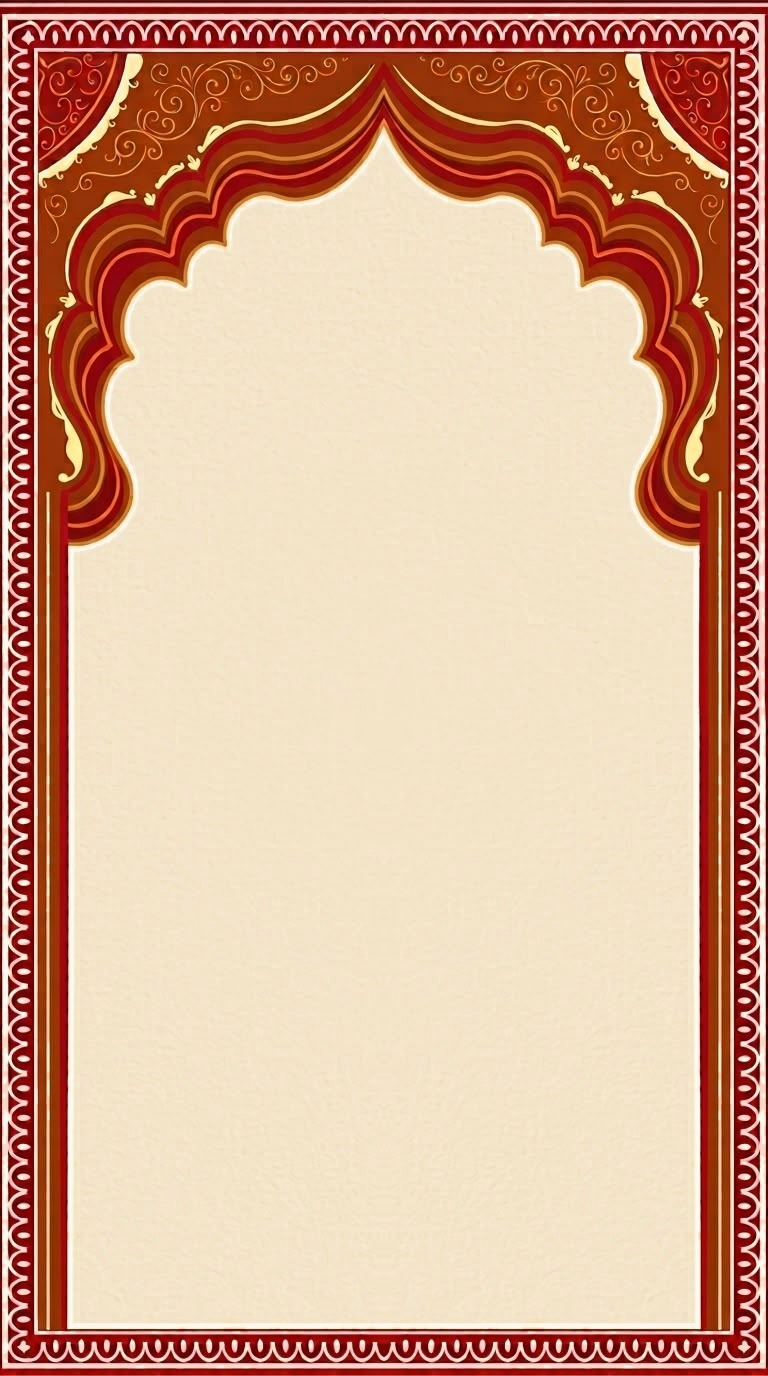
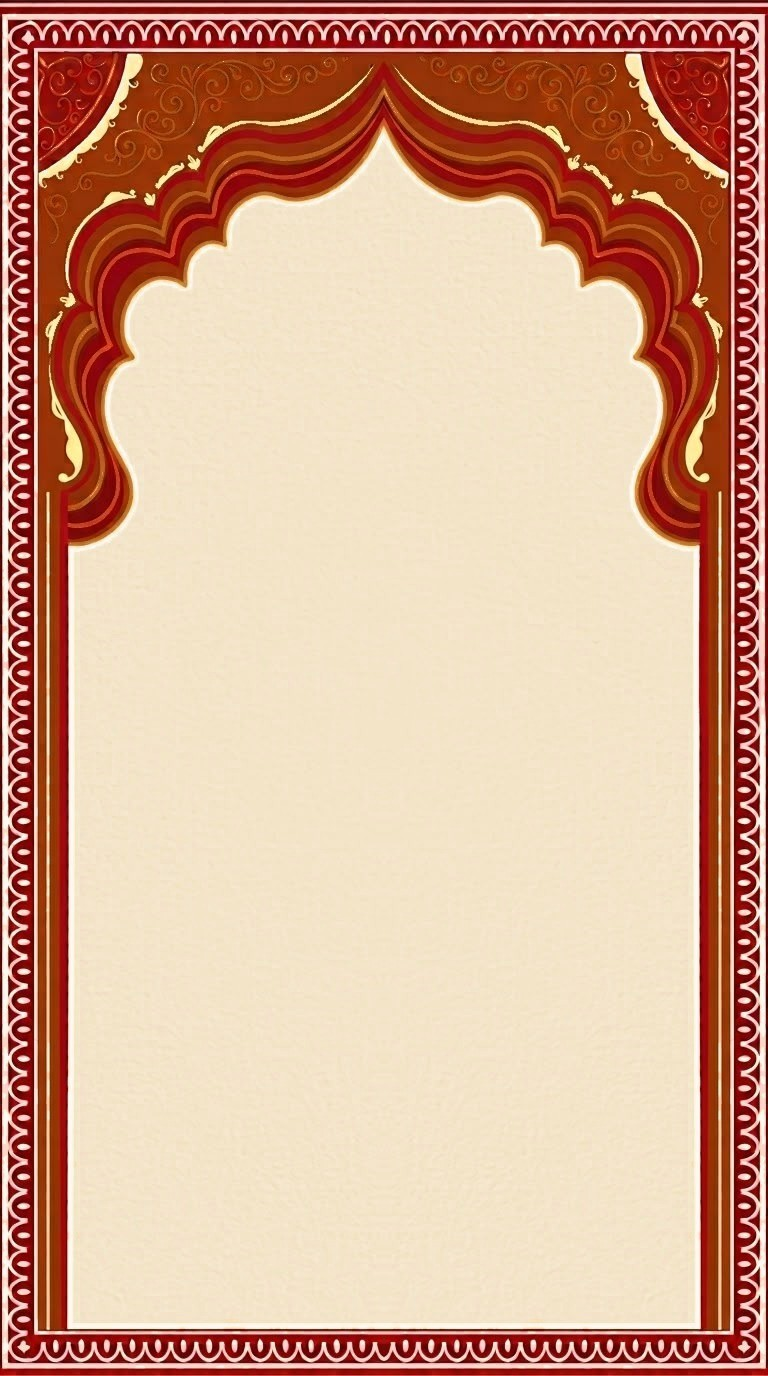
Couple card: names as the focal point, a calmer arch, venue and calendar together
Same arch, borders, Ganesha, invocation, names, date, venue, blessing,
hashtag, illustration and order:
- The arch (couple-card.jpg): the fine gold scrollwork in the two upper
  corners and the swirls in the corner rosettes fade most of the way
  into their ground, and the two bright orange inner outlines soften;
  each touched pixel moves toward the average of its untouched
  neighbours, by colour class, so both halves change alike. Cream
  accents, arch shape and symmetry are untouched.
- Names: the focal point, clamp(44px, 14.4cqw, 56px) in the names'
  maroon serif with a small gold ampersand; a long name shrinks a
  little, then takes two lines.
- Date block: the numeral at 40px, optically centred against the
  words; the gold lines lighter and of equal length.
- Venue and Add to calendar as one block: the place in semibold, the
  city softer, then a small outlined maroon pill with a calendar icon
  (the same Google Calendar link, a 44px tap target).
- Spacing: ~10px within a group, 20-24px between; the hashtag sits
  close above the couple; the illustration a little smaller with more
  room above the bottom border (the card now fits a 390×844 screen).
- Motion: the arch settles in, then the names, date and venue, quote
  and couple rise in; reduced motion shows everything at once. Falling
  petals fade while the card fills the screen.

diff --git a/src/components/sections/Couple.tsx b/src/components/sections/Couple.tsx
@@ -2,13 +2,14 @@ import { useRef, type CSSProperties } from "react";
 import { wedding } from "@/config/wedding";
 import { useFitToArea } from "@/hooks/useFitToArea";
 import { useInView } from "@/hooks/useInView";
+import { usePrefersReducedMotion } from "@/hooks/useMediaQuery";
 import { EASE } from "@/lib/motion";
 import { googleCalendarUrl, weddingCalendarItem } from "@/lib/calendar";
 import { formatVenueDate, parseVenueDateTime } from "@/lib/venueTime";
 import { CardBackdrop, cardCq, cardMinHeight, type CardArt } from "@/components/art/CardBackdrop";
 import { GaneshaIcon, LotusIcon } from "@/components/art/Ganesha";
 import { PinIcon } from "@/components/ui/CardOrnaments";
-import { FitText } from "@/components/ui/FitText";
+import { FitText, type FitTier } from "@/components/ui/FitText";
 
 /**
  * The couple card artwork (768×1376): a carved arch in a red-and-gold border
@@ -27,21 +28,32 @@ const COUPLE_ART = { src: "/art/couple-havan.png", alt: "The bride and groom sea
 const GOLD = "#B8863B";
 const MAROON = "#7A1424";
 const MUTED = "#7A5A44";
+/** A long name first shrinks a little on its line, then takes two. */
+const NAME_FIT: FitTier[] = [
+  [1, 0.78],
+  [2, 0.78],
+];
 
 /**
  * Section 03 — The couple.
  * Inside the card's arch and border, in four groups with a steady rhythm
- * (12px within a group, 32px between): Ganesha, the invocation and the
- * invite line; the couple's names rising in one after another; the date as
- * a classic block, the venue and "Add to calendar"; then a small lotus, the
- * quote and the hashtag — above the illustrated couple at the sacred fire,
- * whose foot fades into the card.
+ * (about 10px within a group, 24px between): Ganesha, the invocation and the
+ * invite line; the couple's names — the focal point, large, with a small
+ * gold ampersand; the date as a classic block, then the venue and a small
+ * outlined "Add to calendar" together; then a small lotus, the quote and the
+ * hashtag, close above the illustrated couple at the sacred fire, which
+ * keeps clear of the bottom border. The arch settles in, then the names,
+ * the date and venue, the quote and the couple rise in, one after another;
+ * with reduced motion all of it is simply there. The falling petals fade
+ * while the card fills the screen.
  */
 export function Couple() {
   const ref = useRef<HTMLElement>(null);
   const areaRef = useRef<HTMLDivElement>(null);
   const blockRef = useRef<HTMLDivElement>(null);
   const inView = useInView(ref, { threshold: 0.25 });
+  const reduced = usePrefersReducedMotion();
+  const on = inView || reduced;
   useFitToArea(areaRef, blockRef);
   const { couple, invitation } = wedding;
   const [first, second] = invitation.names;
@@ -49,11 +61,13 @@ export function Couple() {
   const calendarUrl = calendarItem && googleCalendarUrl(calendarItem);
 
   /** Fades in from just below, after `delay` ms. */
-  const rise = (delay: number): CSSProperties => ({
-    opacity: inView ? 1 : 0,
-    transform: inView ? "none" : "translateY(12px)",
-    transition: `opacity 700ms ${EASE.silk} ${delay}ms, transform 800ms ${EASE.silk} ${delay}ms`,
+  const rise = (delay: number, lift = 12): CSSProperties => ({
+    opacity: on ? 1 : 0,
+    transform: on ? "none" : `translateY(${lift}px)`,
+    transition: reduced ? "none" : `opacity 700ms ${EASE.silk} ${delay}ms, transform 800ms ${EASE.silk} ${delay}ms`,
   });
+  // "Jagannath Kalyan Mandap, Bhubaneswar, Odisha" → the place, then the city
+  const [venueName, venueCity] = couple.place ? couple.place.split(/,\s*(.+)/).filter(Boolean) : [];
 
   return (
     <section
@@ -61,90 +75,103 @@ export function Couple() {
       id="couple"
       aria-labelledby="couple-heading"
       data-status-tone="light"
+      data-no-petals
       className="relative [container-type:inline-size]"
     >
-      <CardBackdrop card={CARD} />
+      {/* the arch settles in */}
+      <CardBackdrop
+        card={CARD}
+        style={{
+          opacity: on ? 1 : 0.4,
+          transform: on ? "none" : "scale(1.015)",
+          transformOrigin: "50% 0",
+          transition: reduced ? "none" : `opacity 900ms ${EASE.silk}, transform 1400ms ${EASE.silk}`,
+        }}
+      />
 
       <div
         className="relative z-20 flex flex-col"
         style={{
           minHeight: cardMinHeight(CARD),
           paddingTop: cq(UNDER_ARCH),
-          paddingBottom: `calc(${cq(CARD.h - BORDER_BOTTOM)} + 10px)`,
+          paddingBottom: `calc(${cq(CARD.h - BORDER_BOTTOM)} + 22px)`,
         }}
       >
         <div ref={areaRef} className="relative min-h-0 flex-1">
           {/* Centred in the card; shrinks a little on very small screens */}
           <div
             ref={blockRef}
-            className="absolute inset-x-0 top-1/2 flex flex-col items-center gap-8 text-center font-serif"
+            className="absolute inset-x-0 top-1/2 flex flex-col items-center text-center font-serif"
             style={{ paddingInline: `calc(${cq(PANEL_EDGE)} + 28px)`, transform: "translateY(-50%)" }}
           >
             {/* Ganesha, the invocation and the invite line */}
-            <div className="flex flex-col items-center gap-3">
+            <div className="flex flex-col items-center gap-2.5">
               <div
                 style={{
-                  opacity: inView ? 1 : 0,
-                  transform: inView ? "none" : "scale(0.85)",
-                  transition: `opacity 600ms ${EASE.silk}, transform 600ms ${EASE.silk}`,
+                  opacity: on ? 1 : 0,
+                  transform: on ? "none" : "scale(0.85)",
+                  transition: reduced ? "none" : `opacity 600ms ${EASE.silk} 150ms, transform 600ms ${EASE.silk} 150ms`,
                 }}
               >
-                <GaneshaIcon className="mt-2 h-[46px] w-auto" />
+                <GaneshaIcon className="mt-2 h-[44px] w-auto" />
               </div>
-              <p className="t-blessing whitespace-nowrap" style={rise(250)}>
+              <p className="t-blessing whitespace-nowrap" style={rise(300)}>
                 {couple.invocation}
               </p>
-              <p className="max-w-[16.5rem] font-serif text-[15px] italic leading-snug [text-wrap:balance]" style={{ ...rise(450), color: MUTED }}>
+              <p className="max-w-[16.5rem] font-serif text-[15px] italic leading-snug [text-wrap:balance]" style={{ ...rise(420), color: MUTED }}>
                 {couple.invite}
               </p>
             </div>
 
             {/* The couple's names, one after another */}
-            <h2 id="couple-heading" className="flex flex-col items-center">
-              <span className="t-names" style={rise(700)}>
+            <h2 id="couple-heading" className="mt-5 flex w-full flex-col items-center">
+              <FitText as="span" tiers={NAME_FIT} className="t-names couple-name" style={rise(600)}>
                 {first}
-              </span>
-              <span className="t-amp my-1 text-[28px]" style={{ ...rise(950), color: "#C9A24E" }}>
+              </FitText>
+              <span className="couple-amp" style={rise(760)}>
                 &amp;
               </span>
-              <span className="t-names" style={rise(1200)}>
+              <FitText as="span" tiers={NAME_FIT} className="t-names couple-name" style={rise(920)}>
                 {second}
-              </span>
+              </FitText>
             </h2>
 
             {/* The date as a classic block, the venue, and Add to calendar */}
-            <div className="flex flex-col items-center gap-3" style={rise(1450)}>
+            <div className="mt-5 flex flex-col items-center" style={rise(1100)}>
               <DateBlock />
-              {couple.place && (
-                <div className="flex flex-col items-center gap-1">
-                  <PinIcon />
-                  <p className="t-body font-semibold leading-snug">
-                    {couple.place.split(/,\s*(.+)/).filter(Boolean).map((part, i) => (
-                      <span key={i} className="block">
-                        {part}
-                      </span>
-                    ))}
-                  </p>
+              {/* the venue and Add to calendar, together */}
+              {(venueName || calendarUrl) && (
+                <div className="mt-4 flex flex-col items-center">
+                  {venueName && (
+                    <>
+                      <PinIcon />
+                      <p className="mt-1.5 leading-snug">
+                        <span className="couple-venue-name">{venueName}</span>
+                        {venueCity && <span className="couple-venue-city">{venueCity}</span>}
+                      </p>
+                    </>
+                  )}
+                  {calendarUrl && (
+                    <a href={calendarUrl} target="_blank" rel="noopener noreferrer" className="couple-cal mt-3">
+                      <CalendarIcon />
+                      Add to calendar
+                    </a>
+                  )}
                 </div>
-              )}
-              {calendarUrl && (
-                <a href={calendarUrl} target="_blank" rel="noopener noreferrer" className="couple-cal">
-                  Add to calendar
-                </a>
               )}
             </div>
 
             {/* A small lotus, the quote, and the hashtag */}
-            <div className="flex flex-col items-center gap-3" style={rise(1700)}>
-              <LotusIcon className="h-5 w-auto" />
+            <div className="mt-5 flex flex-col items-center gap-2.5" style={rise(1280)}>
+              <LotusIcon className="h-[18px] w-auto" />
               <p className="t-quote max-w-[17rem] [text-wrap:balance]">{couple.quote}</p>
               {couple.hashtag && (
                 <div className="flex flex-col items-center gap-1.5">
-                  <span aria-hidden className="h-px w-40" style={{ background: `linear-gradient(to right, transparent, ${GOLD}, transparent)` }} />
+                  <span aria-hidden className="h-px w-36" style={{ background: `linear-gradient(to right, transparent, ${GOLD}, transparent)` }} />
                   <FitText tiers={[[1, 0.6]]} className="t-hashtag">
                     {couple.hashtag}
                   </FitText>
-                  <span aria-hidden className="h-px w-40" style={{ background: `linear-gradient(to right, transparent, ${GOLD}, transparent)` }} />
+                  <span aria-hidden className="h-px w-36" style={{ background: `linear-gradient(to right, transparent, ${GOLD}, transparent)` }} />
                 </div>
               )}
             </div>
@@ -156,15 +183,15 @@ export function Couple() {
           src={COUPLE_ART.src}
           alt={COUPLE_ART.alt}
           decoding="async"
-          className="mx-auto mt-2 block h-auto shrink-0"
+          className="mx-auto mt-3 block h-auto shrink-0"
           style={{
-            width: "min(52cqw, 230px)",
+            width: "min(46cqw, 206px)",
             aspectRatio: `${COUPLE_ART.aspect}`,
-            WebkitMaskImage: "linear-gradient(to bottom, #000 85%, transparent)",
-            maskImage: "linear-gradient(to bottom, #000 85%, transparent)",
-            opacity: inView ? 1 : 0,
-            transform: inView ? "none" : "translateY(16px)",
-            transition: `opacity 900ms ${EASE.silk} 300ms, transform 1000ms ${EASE.silk} 300ms`,
+            WebkitMaskImage: "linear-gradient(to bottom, #000 90%, transparent)",
+            maskImage: "linear-gradient(to bottom, #000 90%, transparent)",
+            opacity: on ? 1 : 0,
+            transform: on ? "none" : "translateY(16px)",
+            transition: reduced ? "none" : `opacity 1000ms ${EASE.silk} 700ms, transform 1100ms ${EASE.silk} 700ms`,
           }}
         />
       </div>
@@ -172,20 +199,31 @@ export function Couple() {
   );
 }
 
-/** The date as a classic block: FRIDAY | 12 | FEB 2027, the words between thin gold lines. */
+/** The date as a classic block: FRIDAY | 12 | FEB 2027, the words between thin gold lines of equal length. */
 function DateBlock() {
   const p = parseVenueDateTime(wedding.wedding.dateTime);
   if (!p) return null;
   const f = formatVenueDate(p);
   return (
-    <p className="grid w-[260px] max-w-full grid-cols-[1fr_auto_1fr] items-center gap-3">
+    <p className="grid w-[252px] max-w-full grid-cols-[1fr_auto_1fr] items-center gap-[14px]">
       <span className="couple-dateside">{f.weekday}</span>
-      <span className="font-cinzel text-[44px] font-semibold leading-none" style={{ color: MAROON }}>
+      <span className="couple-dateday" style={{ color: MAROON }}>
         {f.day}
       </span>
       <span className="couple-dateside">
         {f.month.slice(0, 3)} {f.year}
       </span>
     </p>
+  );
+}
+
+/** A small calendar, for Add to calendar. */
+function CalendarIcon() {
+  return (
+    <svg viewBox="0 0 16 16" aria-hidden className="h-[13px] w-[13px]" fill="none" stroke="currentColor" strokeWidth="1.3" strokeLinecap="round" strokeLinejoin="round">
+      <rect x="2" y="3.2" width="12" height="10.8" rx="1.6" />
+      <path d="M2 6.6h12M5.2 1.8v2.6M10.8 1.8v2.6" />
+      <circle cx="8" cy="10.2" r="0.9" fill="currentColor" stroke="none" />
+    </svg>
   );
 }

diff --git a/src/index.css b/src/index.css
@@ -843,29 +843,59 @@
 }
 
 /* The couple card: the date block's side words between thin gold lines, and Add to calendar */
+/* The couple card (Couple.tsx). The names are the focal point: large, in the
+   names' maroon serif, a small gold ampersand between them. */
+.couple-name {
+  display: block;
+  font-size: clamp(44px, 14.4cqw, 56px);
+  line-height: 1.04;
+  text-wrap: balance;
+}
+.couple-amp {
+  display: block;
+  margin: 2px 0 1px;
+  font: italic 600 26px/1 var(--font-serif);
+  color: #c9a24e;
+}
+/* the date: FRIDAY | 12 | FEB 2027, the words between delicate gold lines */
 .couple-dateside {
   display: block;
-  padding: 5px 0 5px 0.2em; /* the left padding balances the trailing letter-spacing */
-  border-top: 1px solid rgb(201 162 78 / 0.75);
-  border-bottom: 1px solid rgb(201 162 78 / 0.75);
+  padding: 6px 0 6px 0.2em; /* the left padding balances the trailing letter-spacing */
+  border-top: 1px solid rgb(201 162 78 / 0.6);
+  border-bottom: 1px solid rgb(201 162 78 / 0.6);
   font: 500 11px/1.2 var(--font-ui);
   letter-spacing: 0.2em;
   text-transform: uppercase;
   white-space: nowrap;
   color: #7a5a44;
 }
-.couple-cal {
-  padding: 6px 4px;
-  color: #7a1424;
-  font: 500 14px/1 var(--font-ui);
-  font-variant-caps: all-small-caps;
-  letter-spacing: 0.1em;
-  text-decoration: underline;
-  text-decoration-thickness: 1px;
-  text-underline-offset: 4px;
-  text-decoration-color: rgb(122 20 36 / 0.5);
+.couple-dateday {
+  font: 600 40px/1 var(--font-cinzel);
+  padding-top: 2px; /* Cinzel's figures sit a touch high in their line */
 }
-.couple-cal:focus-visible { outline: 2px solid #c9a24e; outline-offset: 3px; border-radius: 2px; }
+/* the venue and Add to calendar, one block */
+.couple-venue-name { display: block; font: 600 17px/1.3 var(--font-serif); color: var(--c-text); }
+.couple-venue-city { display: block; margin-top: 1px; font: 500 15px/1.3 var(--font-serif); color: #7a5a44; }
+.couple-cal {
+  position: relative;
+  display: inline-flex;
+  align-items: center;
+  gap: 6px;
+  min-height: 32px;
+  padding: 0 14px;
+  border: 1px solid rgb(122 20 36 / 0.5);
+  border-radius: 999px;
+  background: rgb(255 250 240 / 0.55);
+  color: #7a1424;
+  font: 600 10.5px/1 var(--font-ui);
+  letter-spacing: 0.14em;
+  text-transform: uppercase;
+  transition: border-color 200ms ease, background-color 200ms ease, transform 150ms ease;
+}
+.couple-cal::before { content: ""; position: absolute; inset: -6px 0; } /* a 44px tap target */
+@media (hover: hover) { .couple-cal:hover { border-color: #7a1424; background: rgb(255 250 240 / 0.9); } }
+.couple-cal:active { transform: scale(0.97); }
+.couple-cal:focus-visible { outline: 2px solid #c9a24e; outline-offset: 3px; }
 
 /* The Families: a carved gold frame around each set of parents (see GoldFrame).
    The band is a gilded gradient with a row of beads along it; the panel inside

diff --git a/src/components/art/CardBackdrop.tsx b/src/components/art/CardBackdrop.tsx
@@ -1,3 +1,5 @@
+import type { CSSProperties } from "react";
+
 /**
  * An illustrated portrait card used as a full-screen section background.
  * Its decorated top (0 → `top`) and bottom (`bottomFrom` → `h`) are kept
@@ -20,9 +22,9 @@ export const cardCq = (card: CardArt, px: number) => `${((px / card.w) * 100).to
 /** The shortest the section may be: the card's whole top and bottom. */
 export const cardMinHeight = (card: CardArt) => `max(100dvh, ${cardCq(card, card.top + card.h - card.bottomFrom)})`;
 
-export function CardBackdrop({ card }: { card: CardArt }) {
+export function CardBackdrop({ card, style }: { card: CardArt; style?: CSSProperties }) {
   return (
-    <div aria-hidden className="absolute inset-0 flex flex-col">
+    <div aria-hidden className="absolute inset-0 flex flex-col" style={style}>
       <div
         className="relative z-10 shrink-0"
         style={{ height: cardCq(card, card.top), backgroundImage: `url(${card.src})`, backgroundSize: "100% auto", backgroundPosition: "top", backgroundRepeat: "no-repeat" }}

diff --git a/README.md b/README.md
@@ -98,7 +98,7 @@ Each section has its own entrance. All of them respect *reduced motion*.
 |---|---|
 | Opening | The carved temple gate (`public/art/temple-door.webp`, Lakshmi above) in warm light, a golden fingertip tapping its brass lock above TAP TO OPEN. The gate shows as soon as the door image has loaded (the darshan artwork loads meanwhile). A tap, or 3.5 s of nothing, opens it (once): the doors part onto a dark doorway with light deep inside, hundreds of golden motes (one canvas, `opening/GoldDust.tsx`) and delicate rays pour out; the gate fades and is removed; on deep black Mahaprabhu Jagannath (`jagannath-darshan.webp`, sunburst masked away) emerges slowly through the motes in a soft halo; petals fall during the darshan; he dissolves into motes in his own shape, which swirl into a ring that settles onto the invitation's rangoli — about 6.5 s from the tap. Skip, Esc, or a tap anywhere during the darshan skips to the end; a sound button plays the sankha. Repeat visits on the same device (`tila:opening-seen` in localStorage) get the short opening: the doors open (1.2 s) straight onto the invitation. `?intro=1` replays the full intro. With reduced motion there is no opening |
 | Invitation | The illustrated invitation card fits one screen: the card (`public/art/invitation/card.jpg`) with its toran and the trinity lifted into their own layers (`toran.webp`, `trinity.webp`); its plain middle band (`public/art/invitation-card-middle.png`) repeats so it fills any height undistorted. The panel is shared in three bands: the top art (the toran swaying gently from its top centre, the trinity 150–160px wide in a soft golden glow, the hanging lamps' flames flickering) about 27%; the words in the middle, centred (|| Jai Jagannath ||, the guest by name, Save the Date, the names at 52px with a gold &, are getting married, then a gold divider, the date as 12 · 02 · 2027 in Cinzel and the city in italics); and the rangoli (30% larger, turning slowly, a gold ring pulsing behind it until tapped) with Tap the rangoli about 27%. Reduced motion: nothing sways, flickers, turns or pulses |
-| Couple | The couple card (`public/art/couple-card.jpg`: carved arch in a red-and-gold border, cream matched to the invitation) fills one screen. Spread evenly inside it: a small dark red Ganesha (`public/art/ganesha-dark-red.png`) just above || Om Ganeshaya Namah ||, the guest greeted by name, the names stacked rising in one after another, the hashtag between gold rules, the date and then the place, and a quote under a small lotus; the illustrated couple seated at the sacred fire (`public/art/couple-havan.png`) is centred at the bottom |
+| Couple | The couple card (`public/art/couple-card.jpg`: carved arch in a red-and-gold border, cream matched to the invitation; the fine scrollwork in its upper corners and rosettes and two bright inner outlines of the arch are quieted) fills one screen on most phones. Inside it, in four groups (about 10px within a group, 24px between): a small dark red Ganesha (`public/art/ganesha-dark-red.png`), || Om Ganeshaya Namah || and the invite line; the couple's names — the focal point, large maroon serif with a small gold ampersand (a long name shrinks a little, then takes two lines); the date as a classic block (FRIDAY \| 12 \| FEB 2027 between delicate gold lines), then the venue and a small outlined "Add to calendar" (Google Calendar) together; a small lotus, the quote and the hashtag between gold rules, close above the illustrated couple seated at the sacred fire (`public/art/couple-havan.png`), which keeps clear of the bottom border. The arch settles in, then the names, date and venue, quote and couple rise in one after another; reduced motion: all simply there. Falling petals fade while it fills the screen |
 | Countdown | A cream card after the couple's design: "Our Wedding · ଶୁଭ ବିବାହ · The countdown to our Forever Begins", a round Sambalpuri-ikat medallion (`art/IkatWheel.tsx`, red, black and white pasapali checks and phula) that turns into place with the scroll, its cream heart divided into four by a fine cross with a small medallion at the centre, counting days, hours, mins and secs (labels in English and Odia); the date beneath. Ornaments in the couple card border's red |
 | Our Story | After the couple's design, on a hanging scroll: the thread from the countdown's wheel comes down to a nail, and the scroll hangs from it by a string — maroon rods with wooden knobs, parchment between. It unrolls as it comes into view: "Two Hearts, One Journey" over "Our Story" and the floral divider (a gold sprig beside the heading); the four chapters on deckle-edged ivory cards, alternating left and right, each with gold flourishes in two corners (label with a short gold dash, title in maroon, the words in italics); a fine gold thread with small gold flowers leaves the divider and winds down beside the cards (in the space each leaves free, crossing between them, never through the words) to a lotus; under it `story.closing` ("A beautiful beginning, a lifetime together") and the bride and groom (`couple.png`) between gold sprigs. Each card fades up as it comes into view (right-hand ones a beat later) while the thread draws down to it; the close fades in last. Falling petals fade while it is read (`data-no-petals`). Reduced motion: all of it simply there |
 | Events | Wedding Events as a vine timeline: a green vine zigzags from flower to flower (hand-drawn SVG marigold and white champa, in turn, on a thin vine with slim leaves and small buds), alternating left and right and growing as you scroll; under each flower the name, Odia name and a "Tap to view details" button that opens a card with the date, time, about, dress code and place (with "View map" when `mapUrl` is set). One card open at a time |
